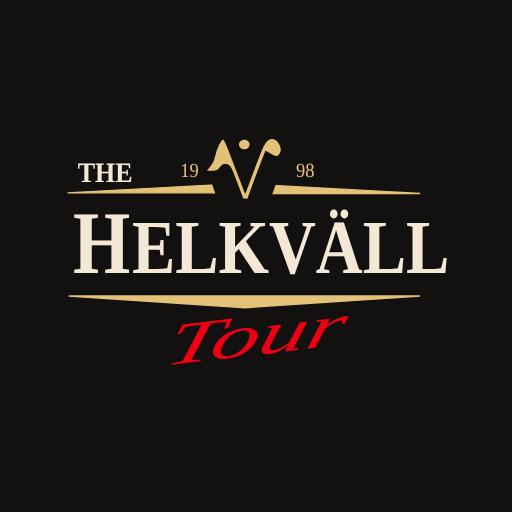
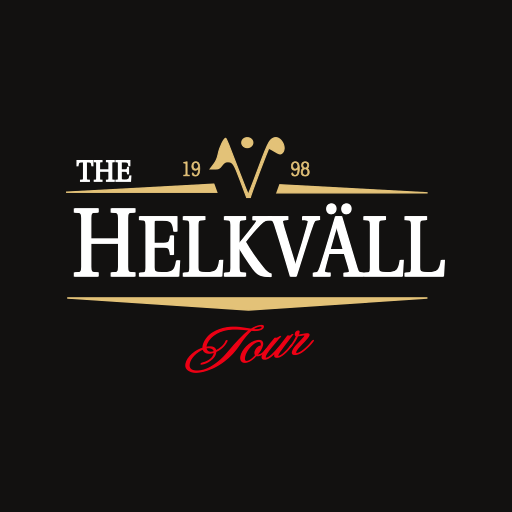
v0.34.1: ny logga (vit text, typsnitt som banor) och nya hemskärmsikoner
Claude-Session: https://claude.ai/code/session_014LxCMJ97xidVPConCjRYEi

Changed region(s): [[0.125, 0.25, 0.875, 0.75], [0.125, 0.3125, 0.2812, 0.375]]

diff --git a/app.js b/app.js
@@ -1,22 +1,22 @@
-// THT golfapp (v0.34.0) – statistik och inmatning.
+// THT golfapp (v0.34.1) – statistik och inmatning.
 // Statistik läses direkt från Supabase-vyerna utan inloggning. Inmatning kräver THT-koden.
 
-import { api, allaRader, esc, fmt, datum, nyNav, nuNav, aktuell, tolkaDatum, uppdateraRoll } from './lib.js?v=0.34.0';
-import { renderMata } from './mata.js?v=0.34.0';
-import { renderAdmin } from './admin.js?v=0.34.0';
-import { renderSpelare } from './spelare.js?v=0.34.0';
-import { renderKarta, miniKarta } from './karta.js?v=0.34.0';
-import { renderBana, banTopplista, banLista, stjarnor } from './bana.js?v=0.34.0';
-import { renderBetygLank } from './betyg.js?v=0.34.0';
-import { renderNyheter } from './nyheter.js?v=0.34.0';
-import { renderRunda } from './runda.js?v=0.34.0';
-import './kollaps.js?v=0.34.0';
-import { renderRapport } from './rapport.js?v=0.34.0';
-import { renderDuell } from './inbordes.js?v=0.34.0';
-import { hamtaMinnen, minnenWidget, kanSkriva } from './minnen.js?v=0.34.0';
-import { renderQuizVisa } from './quiz.js?v=0.34.0';
-import { renderDeltavling } from './deltavling.js?v=0.34.0';
-import { STAT_FLIKAR, renderStatFlik, arsStatistik, renderHal } from './statistik.js?v=0.34.0';
+import { api, allaRader, esc, fmt, datum, nyNav, nuNav, aktuell, tolkaDatum, uppdateraRoll } from './lib.js?v=0.34.1';
+import { renderMata } from './mata.js?v=0.34.1';
+import { renderAdmin } from './admin.js?v=0.34.1';
+import { renderSpelare } from './spelare.js?v=0.34.1';
+import { renderKarta, miniKarta } from './karta.js?v=0.34.1';
+import { renderBana, banTopplista, banLista, stjarnor } from './bana.js?v=0.34.1';
+import { renderBetygLank } from './betyg.js?v=0.34.1';
+import { renderNyheter } from './nyheter.js?v=0.34.1';
+import { renderRunda } from './runda.js?v=0.34.1';
+import './kollaps.js?v=0.34.1';
+import { renderRapport } from './rapport.js?v=0.34.1';
+import { renderDuell } from './inbordes.js?v=0.34.1';
+import { hamtaMinnen, minnenWidget, kanSkriva } from './minnen.js?v=0.34.1';
+import { renderQuizVisa } from './quiz.js?v=0.34.1';
+import { renderDeltavling } from './deltavling.js?v=0.34.1';
+import { STAT_FLIKAR, renderStatFlik, arsStatistik, renderHal } from './statistik.js?v=0.34.1';
 
 const SERIES = ['#3987e5', '#d95926', '#199e70'];
 const MUTED = 'rgba(242, 232, 213, 0.22)';
@@ -399,7 +399,7 @@ async function renderStart(navId) {
 
   app.innerHTML = `
     <section class="hero">
-      <img src="logo.svg?v=0.34.0" alt="" class="hero-logo" aria-hidden="true">
+      <img src="logo.svg?v=0.34.1" alt="" class="hero-logo" aria-hidden="true">
       <h1 class="sr-only">The Helkväll Tour</h1>
       <p class="hero-sub">Sedan ${ar1}${senast ? ` · ${senast.nr} upplagor` : ''}</p>
     </section>

diff --git a/rapport.js b/rapport.js
@@ -1,7 +1,7 @@
 // Årsrapport (#/rapport/<år>): allt om en THT på en sida i stil med 2016-rapporten – går att skriva ut eller spara som PDF.
-import { api, esc, fmt, nuNav, aktuell } from './lib.js?v=0.34.0';
-import { halvinstTabell, fordelningTabell, parTabell } from './statistik.js?v=0.34.0';
-import { hamtaMinnen, vem } from './minnen.js?v=0.34.0';
+import { api, esc, fmt, nuNav, aktuell } from './lib.js?v=0.34.1';
+import { halvinstTabell, fordelningTabell, parTabell } from './statistik.js?v=0.34.1';
+import { hamtaMinnen, vem } from './minnen.js?v=0.34.1';
 
 const app = document.getElementById('app');
 const FARGER = ['#3987e5', '#d95926', '#199e70', '#e3c278', '#a35cc8', '#d4417c', '#5bb7c9', '#8fa83a', '#c98a3e', '#7a86d6', '#b5b0a6', '#e07a5f'];
@@ -76,7 +76,7 @@ export async function renderRapport(artal) {
     <div class="rapport-knappar no-print"><a class="back" href="#/ar/${artal}">‹ ${artal}</a><button class="btn" type="button" id="skrivut">Skriv ut eller spara som PDF</button></div>
     <article class="rapport">
       <header class="rapport-huvud">
-        <img src="logo.svg?v=0.34.0" alt="The Helkväll Tour" class="rapport-logo">
+        <img src="logo.svg?v=0.34.1" alt="The Helkväll Tour" class="rapport-logo">
         <h1>THT ${nr} – ${esc(tht.ort)} ${artal}</h1>
         <p class="sub">${period}${delt.length ? ` · ${delt.length} deltävlingar` : ''}${res.length ? ` · ${res.length} spelare` : ''}</p>
         ${vinnare && tht.klar ? `<p class="rapport-vinnare">Vinnare: <strong>${esc(vinnare.fornamn)}</strong> med ${fmt(vinnare.poang)} poäng</p>` : tht.klar ? '' : '<p class="rapport-vinnare">THT:n pågår – ingen vinnare ännu</p>'}

diff --git a/index.html b/index.html
@@ -5,19 +5,19 @@
   <meta name="viewport" content="width=device-width, initial-scale=1, viewport-fit=cover">
   <meta name="theme-color" content="#121110">
   <title>THT – The Helkväll Tour</title>
-  <link rel="icon" href="logo.svg?v=0.34.0" type="image/svg+xml">
+  <link rel="icon" href="logo.svg?v=0.34.1" type="image/svg+xml">
   <link rel="manifest" href="manifest.webmanifest">
   <link rel="apple-touch-icon" href="apple-touch-icon.png">
   <meta name="apple-mobile-web-app-capable" content="yes">
   <meta name="mobile-web-app-capable" content="yes">
   <meta name="apple-mobile-web-app-status-bar-style" content="black">
   <meta name="apple-mobile-web-app-title" content="THT">
-  <link rel="stylesheet" href="style.css?v=0.34.0">
+  <link rel="stylesheet" href="style.css?v=0.34.1">
 </head>
 <body>
   <header class="topbar">
     <a href="#/" class="brand" aria-label="Till startsidan">
-      <img src="logo.svg?v=0.34.0" alt="The Helkväll Tour" class="logo">
+      <img src="logo.svg?v=0.34.1" alt="The Helkväll Tour" class="logo">
     </a>
     <nav class="tabs" aria-label="Huvudmeny">
       <a href="#/leaderboard" data-route="leaderboard">Leaderboard</a>
@@ -34,10 +34,10 @@
   </main>
 
   <footer class="foot">
-    <a href="#/admin">Admin</a> · <span id="version">v0.34.0</span> · data från Supabase
+    <a href="#/admin">Admin</a> · <span id="version">v0.34.1</span> · data från Supabase
   </footer>
 
-  <script type="module" src="app.js?v=0.34.0"></script>
+  <script type="module" src="app.js?v=0.34.1"></script>
   <script>if ('serviceWorker' in navigator) navigator.serviceWorker.register('sw.js').catch(() => {});</script>
 </body>
 </html>

diff --git a/quiz.js b/quiz.js
@@ -1,8 +1,8 @@
 // Quiz och flashcards (admin, migrering 24): frågor skapas automatiskt ur databasen och kan kompletteras med egna.
 // #/admin/quiz – lista och ny quiz · #/admin/quiz/<id> – redigera · #/quiz/<id> – visa på storskärm (quiz eller flashcards).
-import { api, allaRader, write, esc, fmt, isLoggedIn, arAdmin } from './lib.js?v=0.34.0';
-import { visaLogin } from './mata.js?v=0.34.0';
-import { banTopplista } from './bana.js?v=0.34.0';
+import { api, allaRader, write, esc, fmt, isLoggedIn, arAdmin } from './lib.js?v=0.34.1';
+import { visaLogin } from './mata.js?v=0.34.1';
+import { banTopplista } from './bana.js?v=0.34.1';
 
 const app = document.getElementById('app');
 export const AMNEN = [
@@ -245,7 +245,7 @@ export async function renderQuizVisa(id) {
   const topp = () => `<div class="qs-topp"><a href="#/admin/quiz/${id}" class="qs-ut">✕ Avsluta</a><span>${esc(q.namn)}</span><button type="button" class="qs-hel" title="Helskärm (F)">⛶</button></div>`;
   const rita = () => {
     if (!lage) {
-      app.innerHTML = `${topp()}<div class="qs-start"><img src="logo.svg?v=0.34.0" alt="" class="qs-logo"><h1>${esc(q.namn)}</h1><p>${fr.length} frågor</p>
+      app.innerHTML = `${topp()}<div class="qs-start"><img src="logo.svg?v=0.34.1" alt="" class="qs-logo"><h1>${esc(q.namn)}</h1><p>${fr.length} frågor</p>
         <div class="qs-val"><button type="button" class="btn primary" data-lage="quiz">Quiz</button><button type="button" class="btn" data-lage="kort">Flashcards</button></div>
         <p class="hint">Mellanslag eller → = nästa steg · ← = tillbaka · F = helskärm</p></div>`;
     } else if (i >= fr.length) {

diff --git a/admin.js b/admin.js
@@ -1,11 +1,11 @@
 // Admin: grunddata som läggs upp sällan – spelare, banor, THT, priser och övernattningar.
-import { api, allaRader, write, isLoggedIn, arAdmin, arMarkor, logout, esc, nuNav, aktuell } from './lib.js?v=0.34.0';
-import { visaLogin } from './mata.js?v=0.34.0';
-import { renderBanor } from './admin-banor.js?v=0.34.0';
-import { renderTht } from './admin-tht.js?v=0.34.0';
-import { renderPriser } from './admin-priser.js?v=0.34.0';
-import { renderOvernattning } from './admin-overnattning.js?v=0.34.0';
-import { renderBanbetyg } from './admin-banbetyg.js?v=0.34.0';
+import { api, allaRader, write, isLoggedIn, arAdmin, arMarkor, logout, esc, nuNav, aktuell } from './lib.js?v=0.34.1';
+import { visaLogin } from './mata.js?v=0.34.1';
+import { renderBanor } from './admin-banor.js?v=0.34.1';
+import { renderTht } from './admin-tht.js?v=0.34.1';
+import { renderPriser } from './admin-priser.js?v=0.34.1';
+import { renderOvernattning } from './admin-overnattning.js?v=0.34.1';
+import { renderBanbetyg } from './admin-banbetyg.js?v=0.34.1';
 
 const app = document.getElementById('app');
 
@@ -33,7 +33,7 @@ export async function renderAdmin([sida, ...rest]) {
   if (sida === 'priser') return renderPriser();
   if (sida === 'overnattning') return renderOvernattning();
   if (sida === 'banbetyg') return renderBanbetyg();
-  if (sida === 'quiz') return (await import('./quiz.js?v=0.34.0')).renderQuizAdmin(rest);   // laddas bara när den behövs
+  if (sida === 'quiz') return (await import('./quiz.js?v=0.34.1')).renderQuizAdmin(rest);   // laddas bara när den behövs
   return renderMeny();
 }
 

diff --git a/nyheter.js b/nyheter.js
@@ -1,6 +1,6 @@
 // Nytt i appen: punktlistan per dag från Obsidian-anteckningen THT-nyheter
 // (görs om till nyheter.json med skript/nyheter.py när anteckningen uppdateras).
-import { esc } from './lib.js?v=0.34.0';
+import { esc } from './lib.js?v=0.34.1';
 
 const app = document.getElementById('app');
 // **fet** → <strong>, versionen i slutet dämpas
@@ -10,7 +10,7 @@ const formatera = (t) => esc(t)
 
 export async function renderNyheter() {
   app.innerHTML = '<p class="muted center">Laddar …</p>';
-  const r = await fetch('nyheter.json?v=0.34.0', { cache: 'no-cache' });
+  const r = await fetch('nyheter.json?v=0.34.1', { cache: 'no-cache' });
   if (!r.ok) throw new Error('Kunde inte läsa nyheterna');
   const dagar = await r.json();
   app.innerHTML = `

diff --git a/mata.js b/mata.js
@@ -1,8 +1,8 @@
 // Inmatning: välj deltävling → välj/skapa boll → mata in hål för hål (autospar).
-import { api, write, login, logout, isLoggedIn, arMarkor, arAdmin, esc, fmt, datum, poang, nuNav, aktuell } from './lib.js?v=0.34.0';
+import { api, write, login, logout, isLoggedIn, arMarkor, arAdmin, esc, fmt, datum, poang, nuNav, aktuell } from './lib.js?v=0.34.1';
 
-import { renderScorekort } from './scorekort.js?v=0.34.0';
-import { minnenWidget } from './minnen.js?v=0.34.0';
+import { renderScorekort } from './scorekort.js?v=0.34.1';
+import { minnenWidget } from './minnen.js?v=0.34.1';
 
 const app = document.getElementById('app');
 const pending = new Map(); // `${runda}-${hal}` -> {runda_id, hal_nr, slag, puttar} som inte sparats än

diff --git a/statistik.js b/statistik.js
@@ -1,8 +1,8 @@
 // Statistik från 2016-rapporten: hålvinster, resultatfördelning, par 3/4/5, rekord och svåraste hålen.
 // Beräknas i databasvyerna v_stat_* (migrering 17) – här bara sammanställning och tabeller.
-import { api, allaRader, esc, fmt } from './lib.js?v=0.34.0';
-import { inbordesMatris } from './inbordes.js?v=0.34.0';
-import { minnenAlltime } from './minnen.js?v=0.34.0';
+import { api, allaRader, esc, fmt } from './lib.js?v=0.34.1';
+import { inbordesMatris } from './inbordes.js?v=0.34.1';
+import { minnenAlltime } from './minnen.js?v=0.34.1';
 
 const namnLank = (id, namn) => `<a class="namn" href="#/spelare/${id}">${esc(namn)}</a>`;
 const summa = (xs, f) => xs.reduce((a, x) => a + (Number(f(x)) || 0), 0);

diff --git a/admin-banor.js b/admin-banor.js
@@ -1,8 +1,8 @@
 // Admin: banor. Lista → bana (namn, plats, versioner) → banversion (tee:er och 18 hål).
 // Inget tas bort (RLS tillåter inte delete här) – allt rättas genom att ändra.
-import { api, write, esc, nuNav, aktuell, tolkaDatum } from './lib.js?v=0.34.0';
-import { tolkaScorekort, kontrolleraHal } from './banparse.js?v=0.34.0';
-import { kartvaljare } from './karta.js?v=0.34.0';
+import { api, write, esc, nuNav, aktuell, tolkaDatum } from './lib.js?v=0.34.1';
+import { tolkaScorekort, kontrolleraHal } from './banparse.js?v=0.34.1';
+import { kartvaljare } from './karta.js?v=0.34.1';
 
 const app = document.getElementById('app');
 const idag = () => new Date().toISOString().slice(0, 10);

diff --git a/inbordes.js b/inbordes.js
@@ -2,7 +2,7 @@
 // Ett möte = en deltävling där båda har en hel runda. Lika poäng = oavgjort. Beräknas i vyerna
 // v_inbordes och v_inbordes_summa (migrering 20). Tre vyer i appen: rutan på spelarsidan,
 // matrisen i All-time (#/alltime/inbordes) och duellsidan (#/duell/<a>/<b>).
-import { api, allaRader, esc, fmt, nuNav, aktuell } from './lib.js?v=0.34.0';
+import { api, allaRader, esc, fmt, nuNav, aktuell } from './lib.js?v=0.34.1';
 
 const RAD = 'person_id,fornamn,mot_id,mot_fornamn,moten,vinster,oavgjort,forluster,vinster_slag,oavgjort_slag,forluster_slag,poang_diff,senast';
 const lage = { satt: 'poang', alla: false };            // Poäng/Slag och Alla spelare, delas mellan vyerna

diff --git a/minnen.js b/minnen.js
@@ -1,7 +1,7 @@
 // Minnesvärda moment: kommentarer för en deltävling, en boll eller en spelares runda (tabellen kommentar, migrering 21).
 // Admin och markör kan alltid skriva, ändra och ta bort – även i avslutade THT. Alla kan läsa.
 // Används i Mata in (deltävlingens bollar), på årssidan under varje deltävling, på scorekortet och i årsrapporten.
-import { api, allaRader, write, esc, arAdmin, arMarkor } from './lib.js?v=0.34.0';
+import { api, allaRader, write, esc, arAdmin, arMarkor } from './lib.js?v=0.34.1';
 
 export const kanSkriva = () => arAdmin() || arMarkor();
 const RUNDOR = 'id,deltavling_id,person_id,boll_nr,person(fornamn)';

diff --git a/bana.js b/bana.js
@@ -1,7 +1,7 @@
 // Bansida: en banas betyg, när den spelats, bästa rundor och hålen.
-import { api, esc, fmt, nuNav, aktuell } from './lib.js?v=0.34.0';
-import { punktKarta } from './karta.js?v=0.34.0';
-import { halStatistik } from './statistik.js?v=0.34.0';
+import { api, esc, fmt, nuNav, aktuell } from './lib.js?v=0.34.1';
+import { punktKarta } from './karta.js?v=0.34.1';
+import { halStatistik } from './statistik.js?v=0.34.1';
 
 const app = document.getElementById('app');
 const stjarnor = (v) => v == null ? '' : `<span class="stjarnor" aria-hidden="true" style="--v:${(v / 5) * 100}%">★★★★★</span>`;
